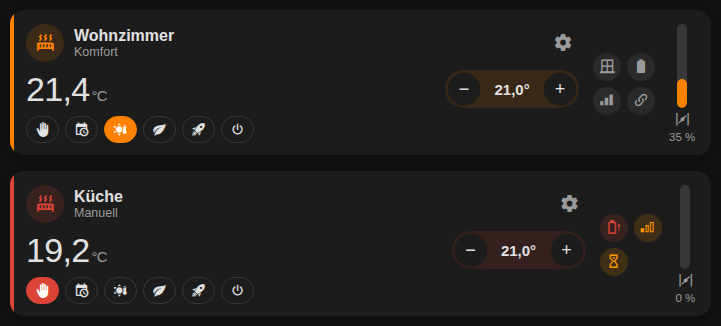
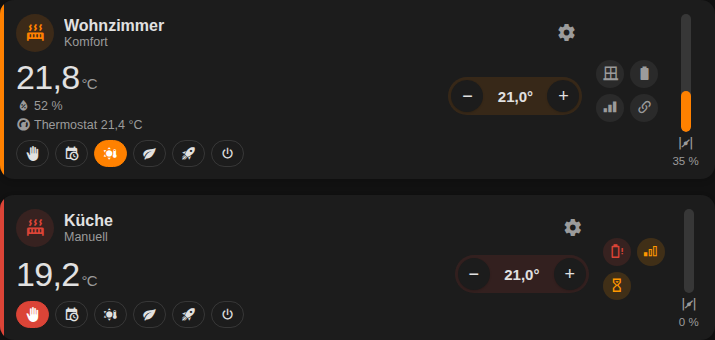
Version 0.8.6: Verknüpfung gilt durch Telegramm an den Partner als bestätigt (#6), Wochenprogramm auf ganzen Bereich kopieren

diff --git a/custom_components/eq3_max/frontend/eq3-max-panel.js b/custom_components/eq3_max/frontend/eq3-max-panel.js
@@ -206,6 +206,9 @@ const EN = {
   "wird gestellt …": "setting …",
   "Uhr jetzt stellen": "Set clock now",
   "Auf andere Thermostate kopieren": "Copy to other thermostats",
+  "ganzer Bereich": "whole area",
+  "Mit einem Thermostat verknüpfte Thermostate des Raums bekommen das Programm automatisch mit; je Raum reicht dann ein Gerät.":
+    "Thermostats of the room linked to a thermostat get the program along with it; one device per room is then enough.",
   "Erst ein Programm schreiben, dann lässt es sich kopieren.": "Write a program first, then it can be copied.",
   // Funkmodul
   "Alle Funkmodule nutzen dieselbe Zentralen-Adresse. Das zugeordnete Modul sendet die Befehle an das Gerät, empfangen wird über alle. Umstellen sendet nichts an das Gerät und braucht kein Neuanlernen.":
@@ -651,6 +654,10 @@ const STYLE = `
   .wp-day .wp-name { width: 92px; font-weight: 500; }
   .wp-days { display: flex; flex-wrap: wrap; gap: 4px 12px; align-items: center; padding: 4px 0; }
   .wp-check { display: inline-flex; align-items: center; gap: 4px; font-size: 14px; cursor: pointer; }
+  .wp-area { padding: 6px 0; border-bottom: 1px solid var(--e3-divider); }
+  .wp-area:last-of-type { border-bottom: 0; }
+  .wp-area-all { gap: 6px; }
+  .wp-area .wp-days { padding-left: 24px; }
   .wp-point { display: flex; gap: 10px; align-items: center; padding: 5px 0; border-bottom: 1px solid var(--e3-divider); flex-wrap: wrap; }
   .wp-point .ctl { display: flex; align-items: center; gap: 6px; }
   .wp-point input[type=number] { width: 80px; text-align: right; }
@@ -1738,11 +1745,40 @@ class Eq3MaxPanel extends HTMLElement {
     // Copy to other thermostats of the same radio module.
     const others = entry.devices.filter((d) => d.serial !== dev.serial && (d.type === "heating_thermostat" || d.type === "wall_thermostat"));
     const hasStored = Object.keys(stored).length > 0;
-    const targetBoxes = others.map((d) => {
-      const box = h("input", { type: "checkbox", "data-focus": `${key}:c:${d.serial}` });
-      box.checked = draft.targets.has(d.serial);
-      box.addEventListener("change", () => { box.checked ? draft.targets.add(d.serial) : draft.targets.delete(d.serial); copyButton.disabled = busy || !draft.targets.size; });
-      return h("label", { class: "wp-check" }, box, d.name);
+    // Grouped by area (#9): devices of the same name are told apart by their room, and a
+    // whole area is one tick. Several devices of one linked room are no problem: a room
+    // that already gets the same program joins that job.
+    const byArea = new Map();
+    for (const d of others) {
+      const areaKey = d.area_id || "";
+      if (!byArea.has(areaKey)) byArea.set(areaKey, { name: d.area_name || t("Ohne Bereich"), devices: [] });
+      byArea.get(areaKey).devices.push(d);
+    }
+    const areaGroups = [...byArea.entries()].sort(([ka, a], [kb, b]) => {
+      if (!ka) return 1;
+      if (!kb) return -1;
+      return a.name.localeCompare(b.name, LANG);
+    });
+    const targetBoxes = areaGroups.map(([areaKey, group]) => {
+      const picked = group.devices.filter((d) => draft.targets.has(d.serial)).length;
+      const all = h("input", { type: "checkbox", "data-focus": `${key}:ca:${areaKey}` });
+      all.checked = picked === group.devices.length;
+      all.indeterminate = picked > 0 && picked < group.devices.length;
+      all.addEventListener("change", () => {
+        for (const d of group.devices) all.checked ? draft.targets.add(d.serial) : draft.targets.delete(d.serial);
+        this._render();
+      });
+      return h("div", { class: "wp-area" },
+        h("label", { class: "wp-check wp-area-all" }, all, h("b", {}, group.name), h("span", { class: "sub" }, t("ganzer Bereich"))),
+        h("div", { class: "wp-days" }, group.devices.map((d) => {
+          const box = h("input", { type: "checkbox", "data-focus": `${key}:c:${d.serial}` });
+          box.checked = draft.targets.has(d.serial);
+          box.addEventListener("change", () => {
+            box.checked ? draft.targets.add(d.serial) : draft.targets.delete(d.serial);
+            this._render();
+          });
+          return h("label", { class: "wp-check" }, box, d.name);
+        })));
     });
     const copyButton = h("button", {
       class: "action", disabled: busy || !draft.targets.size,
@@ -1844,7 +1880,10 @@ class Eq3MaxPanel extends HTMLElement {
         ? h("fieldset", {},
           h("legend", {}, t("Auf andere Thermostate kopieren")),
           hasStored
-            ? [h("div", { class: "wp-days" }, targetBoxes), h("div", { class: "setfoot" }, copyButton)]
+            ? [
+              h("div", { class: "sub", style: "margin:2px 0 6px" },
+                t("Mit einem Thermostat verknüpfte Thermostate des Raums bekommen das Programm automatisch mit; je Raum reicht dann ein Gerät.")),
+              targetBoxes, h("div", { class: "setfoot" }, copyButton)]
             : h("div", { class: "empty" }, t("Erst ein Programm schreiben, dann lässt es sich kopieren.")))
         : null,
     ];

diff --git a/tests/protocol/test_hub.py b/tests/protocol/test_hub.py
@@ -1724,14 +1724,15 @@ async def test_fast_no_ack_waits_again_without_retries_and_stays_fast():
 
 
 async def test_contact_frame_to_its_thermostat_triggers_too():
-    """A contact retrying an unreachable partner (every 6-30 s in the trace of
+    """(To another partner than the one being linked: a telegram to that one would prove
+    the link.) A contact retrying an unreachable partner (every 6-30 s in the trace of
     09.11.2026) waits for that partner's answer after each attempt: as good a moment
     as any to reach it, so every telegram of a sleeper arms the flush."""
     cul = FakeCul()
     h = _fast_hub(cul)
     await _started(h, cul)
     try:
-        cul.feed(line(7, 0x06, MsgType.SHUTTER_CONTACT_STATE, FK, HT, 0, "12"))
+        cul.feed(line(7, 0x06, MsgType.SHUTTER_CONTACT_STATE, FK, WT, 0, "12"))
         await until(lambda: h.devices[FK].window_open is True)
         await until(lambda: len(fast(cul)) == 1)
         assert matches(fast(cul)[0], link_frame(FK, HT, 1))
@@ -1752,7 +1753,7 @@ async def test_contact_talking_again_abandons_the_fast_attempt_on_air_and_retrie
         cul.feed(to_us(7))
         await until(lambda: len(fast(cul)) == 1)
         assert h.devices[FK].link_op(HT_S)["state"] == "ausstehend"
-        cul.feed(line(7, 0x06, MsgType.SHUTTER_CONTACT_STATE, FK, HT, 0, "12"))
+        cul.feed(line(7, 0x06, MsgType.SHUTTER_CONTACT_STATE, FK, WT, 0, "12"))
         await until(lambda: h.devices[FK].link_op(HT_S)["state"] == waiting, timeout=0.2)  # long before the ack timeout
         await until(lambda: len(fast(cul)) == 2)
         ack(cul, FK, fast(cul)[1])
@@ -1774,9 +1775,9 @@ async def test_contact_burst_to_partners_delays_the_fast_send_until_the_burst_en
         await asyncio.sleep(0.04)
         cul.feed(line(7, 0x04, MsgType.SHUTTER_CONTACT_STATE, FK, 0xA1B00F, 0, "12"))  # partner unknown to us
         await asyncio.sleep(0.04)
-        cul.feed(line(7, 0x06, MsgType.SHUTTER_CONTACT_STATE, FK, HT, 0, "12"))
+        cul.feed(line(7, 0x06, MsgType.SHUTTER_CONTACT_STATE, FK, WT, 0, "12"))
         await asyncio.sleep(0.03)
-        cul.feed(line(7, 0x00, MsgType.ACK, HT, FK, 0, "0012"))  # the thermostat answers the contact
+        cul.feed(line(7, 0x00, MsgType.ACK, WT, FK, 0, "0012"))  # the partner answers the contact
         assert fast(cul) == []  # 110 ms in: a flush 80 ms after the first telegram would be out already
         await until(lambda: len(fast(cul)) == 1)
         assert matches(fast(cul)[0], link_frame(FK, HT, 1))
@@ -3001,3 +3002,54 @@ async def test_only_one_link_goes_out_per_pong(hub):
     await asyncio.sleep(0.05)
     assert {l[24:30] for l in fast(cul)} == {f"{HT:06X}"}
     assert h.devices[FK].link_op(WT_S)["state"] == "wartet auf Gerät"
+
+
+async def test_contact_talking_to_a_partner_proves_a_link_we_gave_up_on():
+    """#6, trace of 17.11.2026: the contact took the link, its acknowledgement never
+    reached us and the operation ended as failed. It reports the window to that partner
+    all the same, which only a device carrying the link does: the telegram counts as the
+    acknowledgement, nothing is sent."""
+    cul = FakeCul()
+    h = _fast_hub(cul)
+    await _started(h, cul)
+    try:
+        h.devices[FK].set_link_state(HT_S, "add", "fehlgeschlagen")
+        cul.feed(line(2, 0x04, MsgType.SHUTTER_CONTACT_STATE, FK, HT, 0, "12"))
+        await until(lambda: h.devices[FK].links == [HT_S])
+        assert h.devices[FK].pending_links == []
+        assert link_status(h.devices, h.devices[FK]).partners == [HT_S]
+        await asyncio.sleep(0.15)
+        assert fast(cul) == []
+    finally:
+        await h.stop()
+
+
+async def test_contact_talking_to_a_partner_ends_the_attempt_on_air():
+    cul = FakeCul()
+    h = _fast_hub(cul, fast_ack_timeout=0.4)
+    await _started(h, cul)
+    try:
+        cul.feed(to_us(7))
+        await until(lambda: len(fast(cul)) == 1)
+        cul.feed(line(7, 0x04, MsgType.SHUTTER_CONTACT_STATE, FK, HT, 0, "12"))
+        await until(lambda: h.devices[FK].links == [HT_S])
+        await asyncio.sleep(0.6)
+        assert len(fast(cul)) == 1 and h.devices[FK].pending_links == []
+    finally:
+        await h.stop()
+
+
+async def test_contact_talking_to_a_partner_we_want_removed_proves_nothing():
+    cul = FakeCul()
+    h = _fast_hub(cul)
+    await h.start()
+    await until(lambda: h.connected)
+    try:
+        h.devices[FK].links = [HT_S]
+        h.unlink(FK, HT, force=True)
+        cul.feed(line(2, 0x04, MsgType.SHUTTER_CONTACT_STATE, FK, HT, 0, "12"))
+        await until(lambda: len(fast(cul)) == 1)
+        assert matches(fast(cul)[0], link_frame(FK, HT, 1, 0x21))
+        assert h.devices[FK].links == [HT_S]
+    finally:
+        await h.stop()

diff --git a/custom_components/eq3_max/protocol/hub.py b/custom_components/eq3_max/protocol/hub.py
@@ -1165,6 +1165,28 @@ class MaxHub:
             if entry["state"] == LINK_WAITING:
                 self._submit_link(dev, entry, awake=True, fast=True)
 
+    def _link_proven(self, dev: MaxDevice, partner_address: int) -> None:
+        """The sleeper reports its state to this device, which only one carrying the link
+        does: an addition still open counts as acknowledged. Its acknowledgement can get
+        lost while the device took the link; the operation then waited or was given up for
+        good although everything worked (#6, 17.11.2026)."""
+        partner = self.devices.get(partner_address)
+        if partner is None:
+            return
+        entry = dev.link_op(partner.serial)
+        if entry is None or entry["op"] != LINK_ADD:
+            return
+        dev.commit_link(partner.serial, LINK_ADD)
+        key = self._link_key(dev, partner_address)
+        for radio in self._radios.values():
+            radio.scheduler.abandon_key(key)
+        self._link_missed_at.pop((dev.address, partner.serial), None)
+        _LOGGER.info(
+            "MAX! %s (%s): link add %s proven by its telegram to that device",
+            dev.name or dev.serial, dev.serial, partner.serial,
+        )
+        self._notify_pair(dev, partner.serial)
+
     def _send_links_after_pong(self, dev: MaxDevice) -> None:
         """A device that just paired with us (new batteries, teach-in button) stays awake
         for a few seconds, waiting for its configuration. For a sleeper that is the one
@@ -1681,6 +1703,8 @@ class MaxHub:
         if status:
             self._resubmit_failed_group(dev)
         if dev.is_sleeper:
+            if kind in (MsgType.SHUTTER_CONTACT_STATE, MsgType.PUSH_BUTTON_STATE) and frame.dst != self.address:
+                self._link_proven(dev, frame.dst)
             if not (kind == MsgType.ACK and frame.dst == self.address):
                 # It transmits instead of listening: a fast attempt on air is moot.
                 self._abandon_fast_attempts(dev)
@@ -1690,8 +1714,9 @@ class MaxHub:
             # a retry towards an unreachable partner is a chance of its own.
             if dev.pending_links:
                 TRACE.info(
-                    "sleeper %06X talked to %s (type %02X): flush of its link operations %.0f ms after its last telegram",
+                    "sleeper %06X talked to %s (type %02X): flush of its link operations (%s) %.0f ms after its last telegram",
                     dev.address, "us" if frame.dst == self.address else f"{frame.dst:06X}", kind,
+                    ", ".join(f"{op['op']} {op['partner']}: {op['state']}" for op in dev.pending_links),
                     self._sleeper_debounce * 1000,
                 )
             self._schedule_flush(dev)

diff --git a/website/handbuch/karte.de.md b/website/handbuch/karte.de.md
@@ -23,7 +23,23 @@ entity: climate.wohnzimmer
 layout: kompakt      # kompakt | ring | kachel
 name: Wohnzimmer     # optional, sonst der Gerätename
 show_modes: true     # optional, Modus-Knöpfe zeigen
+temperature_sensor: sensor.wohnzimmer_temperatur  # optional (ab Karte 0.1.2)
+humidity_sensor: sensor.wohnzimmer_feuchte        # optional (ab Karte 0.1.2)
 ```
+
+Seit **Karte 0.1.2** wird sie bei „Karte hinzufügen → Nach Entität“ für MAX!-Thermostate unter
+„Community“ vorgeschlagen.
+
+### Externe Sensoren
+
+Hängt das Thermostat am Heizkörper, misst es dort oft wärmer oder kälter als im Raum.
+`temperature_sensor` zeigt stattdessen einen Raumsensor als Ist-Temperatur; ist er nicht
+verfügbar, nimmt die Karte wieder den Wert des Thermostats. `humidity_sensor` zeigt die
+Luftfeuchte. Beide lassen sich im visuellen Editor auswählen.
+
+Das ist **nur Anzeige**: Das Thermostat regelt weiter nach seinem eigenen Fühler. Deshalb steht
+dessen Wert klein darunter („Thermostat 21,4 °C“, im Ring als Tooltip über „Ist“) – eine große
+Abweichung erklärt, warum ein Raum wärmer oder kälter wird als erwartet.
 
 ## Drei Layouts
 
@@ -40,7 +56,8 @@ show_modes: true     # optional, Modus-Knöpfe zeigen
 - **Modus-Knöpfe:** Manuell, Auto (Wochenprogramm), Komfort, Eco, Boost, Aus. Ist das Thermostat
   abwesend geschaltet, steht „Abwesend bis …“ da; ein Modus-Knopf beendet es.
 - **Klick auf die Ist-Temperatur** öffnet den Home-Assistant-Dialog mit dem Verlauf, **Klick auf
-  das Ventil** den Ventilverlauf. Im Ring öffnet ein Tipp in die Mitte den Verlauf.
+  das Ventil** den Ventilverlauf. Im Ring öffnet ein Tipp in die Mitte den Verlauf; Feuchte- und Ventilzeile öffnen ihren eigenen.
+  Nur der Bogen selbst stellt den Sollwert ein (ab 0.1.2; vorher setzte ein Tippen aufs Ventil 30,5 °C).
 - Der farbige Streifen links zeigt den Zustand: orange = heizt, orange-gelb = Fenster offen,
   rot = Batterie schwach oder Funkfehler.
 

diff --git a/website/handbuch/karte.md b/website/handbuch/karte.md
@@ -23,7 +23,23 @@ entity: climate.living_room
 layout: kompakt      # kompakt | ring | kachel
 name: Living room    # optional, otherwise the device name
 show_modes: true     # optional, show the mode buttons
+temperature_sensor: sensor.living_room_temperature  # optional (card 0.1.2+)
+humidity_sensor: sensor.living_room_humidity        # optional (card 0.1.2+)
 ```
+
+Since **card 0.1.2** it is suggested for MAX! thermostats under "Community" in "Add card → By
+entity".
+
+### External sensors
+
+A thermostat on the radiator often measures warmer or colder than the room. `temperature_sensor`
+shows a room sensor as the current temperature instead; when it is unavailable, the card falls
+back to the thermostat's value. `humidity_sensor` shows the humidity. Both can be picked in the
+visual editor.
+
+This is **display only**: the thermostat keeps regulating on its own sensor. So its value stays
+small below ("Thermostat 21.4 °C", in the ring as a tooltip on "Now") – a large gap explains why a
+room gets warmer or colder than expected.
 
 ## Three layouts
 
@@ -40,7 +56,8 @@ show_modes: true     # optional, show the mode buttons
 - **Mode buttons:** Manual, Auto (week program), Comfort, Eco, Boost, Off. When the thermostat
   is set to away, "Away until …" shows; a mode button ends it.
 - **Click the current temperature** to open Home Assistant's dialog with its history, **click the
-  valve** for the valve history. In the ring, tap the centre for the history.
+  valve** for the valve history. In the ring, tap the centre for the history; the humidity and valve lines open their own.
+  Only the arc itself sets the target (0.1.2+; before, a tap on the valve set 30.5 °C).
 - The coloured stripe on the left shows the state: orange = heating, amber = window open,
   red = battery low or radio error.
 

diff --git a/CHANGELOG.de.md b/CHANGELOG.de.md
@@ -7,6 +7,22 @@ Versionierung nach [Semantic Versioning](https://semver.org/lang/de/).
 
 ## [Unreleased]
 
+## [0.8.6] – 2026-11-17
+
+### Behoben
+- **Meldet ein Fensterkontakt an einen Partner, gilt die Verknüpfung als bestätigt (#6).** Ein
+  Kontakt hatte eine Verknüpfung angenommen, seine Quittung kam aber nie an: Sie blieb auf
+  „wartet“ oder „fehlgeschlagen“, obwohl Heizkörper- und Wandthermostat längst auf das Fenster
+  reagierten. Ein Telegramm des Kontakts (oder Eco-Tasters) an den Partner zählt jetzt als
+  Quittung, gesendet wird nichts mehr.
+- Der Telegramm-Mitschnitt zeigt den Zustand jeder wartenden Verknüpfungsänderung eines
+  schlafenden Geräts.
+
+### Geändert
+- **Wochenprogramm kopieren: Ziele nach Bereich gruppiert, mit Häkchen „ganzer Bereich“**
+  (Diskussion #9). Gleich benannte Geräte sind am Raum zu unterscheiden. Ein Hinweis sagt, dass
+  verknüpfte Thermostate eines Raums das Programm mitbekommen, ein Gerät je Raum also reicht.
+
 ## [0.8.5] – 2026-11-16
 
 ### Behoben

diff --git a/CHANGELOG.md b/CHANGELOG.md
@@ -7,6 +7,20 @@ and this project adheres to [Semantic Versioning](https://semver.org/).
 
 ## [Unreleased]
 
+## [0.8.6] – 2026-11-17
+
+### Fixed
+- **A window contact reporting to a partner proves the link (#6).** A contact took a link,
+  but its acknowledgement never arrived, so the link stayed "waiting" or "failed" although
+  thermostat and wall thermostat already followed the window. A telegram from the contact (or
+  eco button) to the partner now counts as the acknowledgement; nothing is sent again.
+- The telegram trace shows the state of each waiting link change of a sleeping device.
+
+### Changed
+- **Copying a week program: targets grouped by area, with a "whole area" tick** (discussion #9).
+  Devices of the same name are told apart by their room. A note says that thermostats linked
+  in a room get the program along with it, so one device per room is enough.
+
 ## [0.8.5] – 2026-11-16
 
 ### Fixed

diff --git a/website/handbuch/verknuepfungen.de.md b/website/handbuch/verknuepfungen.de.md
@@ -34,6 +34,9 @@ Fensterkontakte und Wandthermostate wirken **direkt per Funk** auf verknüpfte T
   Druck:** Nach der ersten hört der Kontakt nicht mehr zu (#6); da er jetzt einen Partner hat,
   kommen die übrigen beim nächsten Fenster öffnen/schließen oder mit dem nächsten Druck. Ein
   Batteriewechsel reicht nicht, danach meldet sich ein Kontakt nicht neu an.
+- **Verlorene Quittung (ab 0.8.6):** Meldet ein Kontakt oder Taster sein Ereignis an den Partner,
+  trägt er die Verknüpfung – das tut nur ein verknüpftes Gerät. Ein noch offener Auftrag
+  („wartet auf …“ oder „fehlgeschlagen“) gilt damit als bestätigt, gesendet wird nichts mehr (#6).
 - Zustände in `ausstehend`: ausstehend · wartet auf … · fehlgeschlagen (wird wiederholt) ·
   **fehlgeschlagen (abgelehnt)** (Gerät hat abgelehnt, keine automatische Wiederholung) ·
   einseitig (nur eine Seite kennt die andere).

diff --git a/website/handbuch/verknuepfungen.md b/website/handbuch/verknuepfungen.md
@@ -33,6 +33,9 @@ Window contacts and wall thermostats act **directly by radio** on linked thermos
   the contact stops listening (#6); as it has a partner now, the others follow on the next
   window event or the next press. New batteries are not enough, a contact
   does not report again after a restart.
+- **Lost acknowledgement (from 0.8.6):** a contact or button reporting its event to the partner
+  carries the link – only a linked device does that. A change still open ("waiting for …" or
+  "failed") counts as acknowledged then, nothing is sent again (#6).
 - States in `ausstehend`: pending · waiting for … · failed (will be retried) ·
   **failed (rejected)** (the device refused, no automatic retry) ·
   one-sided (only one side knows the other).
